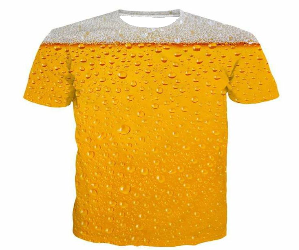
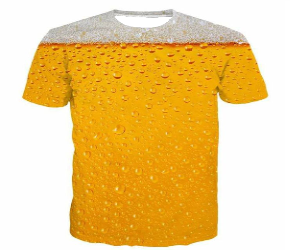
1

diff --git a/bot.py b/bot.py
@@ -3138,7 +3138,7 @@ CLOTHING_SHOP_ITEMS = [
         "slot": "top",
         "scale": 165,
         "x": 365,
-        "y": 150,
+        "y": 153,
     },
 ]
 
